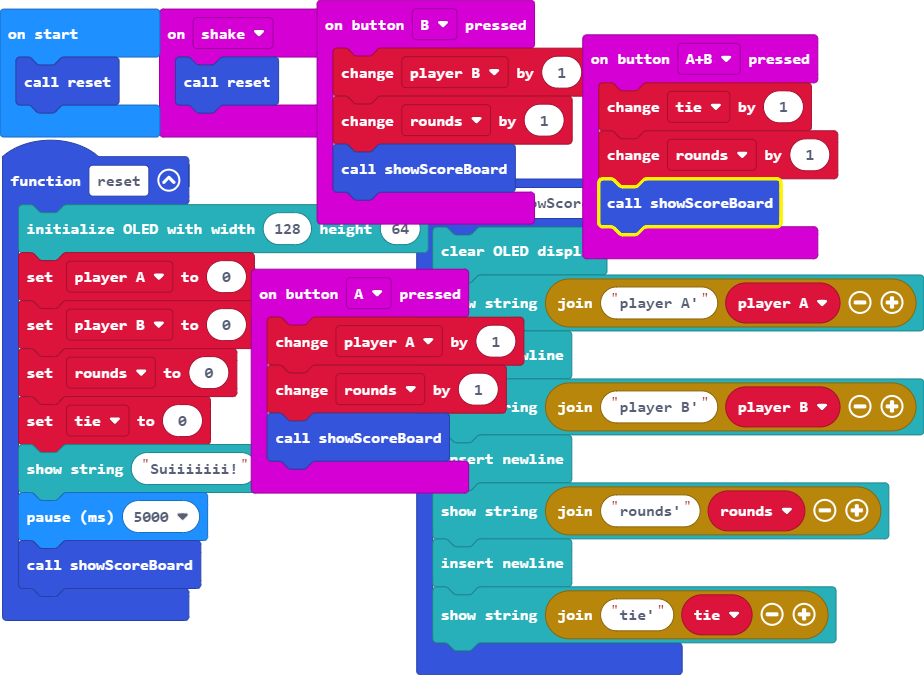
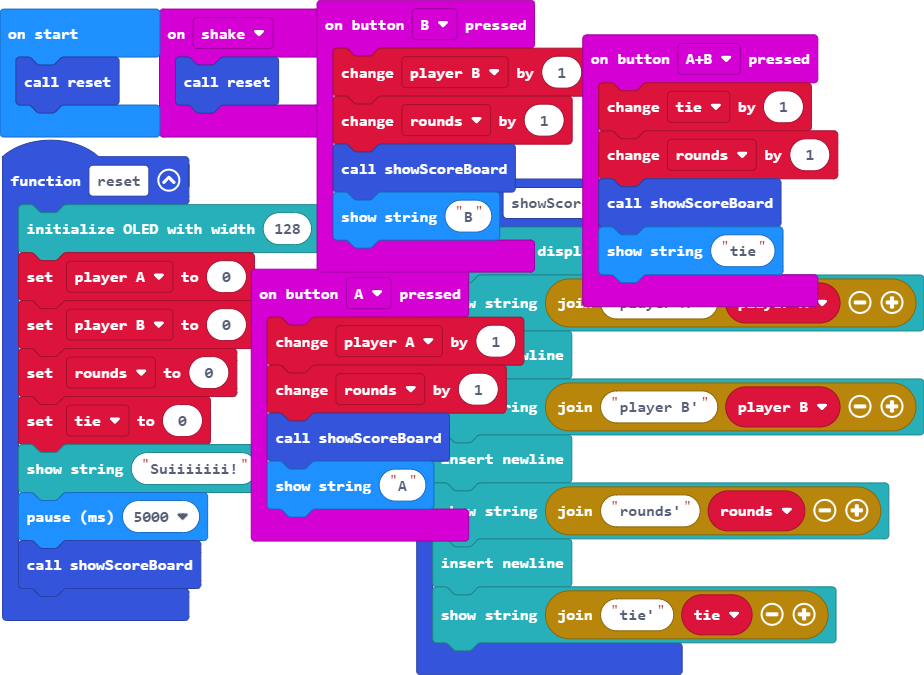
Update main.blocks, main.ts

Changed region(s): [[0.3333, 0.2489, 0.9091, 0.4667], [0.2727, 0.6844, 0.5152, 0.8089]]

diff --git a/main.ts b/main.ts
@@ -2,6 +2,7 @@ input.onButtonPressed(Button.A, function () {
     player_A += 1
     rounds += 1
     showScoreBoard()
+    basic.showString("A")
 })
 function showScoreBoard () {
     OLED.clear()
@@ -17,11 +18,13 @@ input.onButtonPressed(Button.AB, function () {
     tie += 1
     rounds += 1
     showScoreBoard()
+    basic.showString("tie")
 })
 input.onButtonPressed(Button.B, function () {
     player_B += 1
     rounds += 1
     showScoreBoard()
+    basic.showString("B")
 })
 input.onGesture(Gesture.Shake, function () {
     reset()
